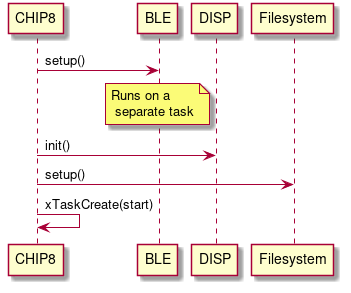
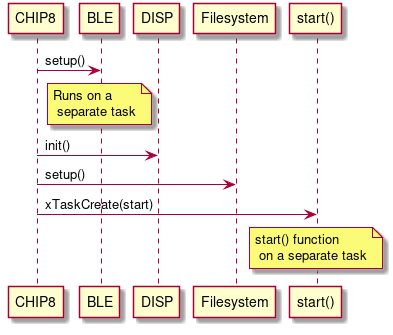
Added more content to esp32 chip8

diff --git a/_posts/2020-11-01-CHIP8-ESP32.md b/_posts/2020-11-01-CHIP8-ESP32.md
@@ -200,12 +200,29 @@ Now that the caching is applied, let's see the improvement in the performance:
 |:--:| 
 | *Output in the TFT display with caching to improve perf on [test rom](https://github.com/corax89/chip8-test-rom)* |
 
-Perfect! It takes less than a second similar to the desktop implementation. That is more than a 10x improvement in performance.
+Perfect! It takes less than a second similar to the desktop implementation. That is more than a 10x improvement in performance compared to my naive implementation.
 
-### CHIP8
+### CHIP8 (class)
 
 #### Concept
 As seen in the `SW Class Diagram`, this `CHIP8` class initiates and ties everything together. The main responsibility of the `CHIP8` class is to initialize all the classes, and orchestrate coordination between them to run the CHIP8 VM. 
+
+
+#### Porting
+
+| ![chip8seq](/assets/ESP32-CHIP8/CHIP8_seq.png) |
+|:--:| 
+| *Sequence diagram of CHIP8 class interaction with other classes* |
+
+First, the CHIP8 class spawns a BLE task with an appropriate service to process the incoming request. It is done by calling few member functions of the BLE class. Then the CHIP8 class initializes the TFT display and the SPIFFS filesystem. And finally, it spawns a new task with a function that is indicated as `start()` for running the emulator itself. Running the emulator as a part of separate tasks allows to specify the stack size and the core it needs to run (Core 1 was chosen here as BLE runs on Core 0)
+
+The start function is implemented as state machine as follows:
+
+| ![chip8state](/assets/ESP32-CHIP8/CHIP8_state.png) |
+|:--:| 
+| *State diagram of the start function* |
+
+
 ### Discarded
 Computers are fascinating. Processors are at the heart of the computer. They are one of the most important piece of hardware that are making the computer faster and getting smaller every year[moore's law]. With advancement in processor technology, comes the complexity. It is not easy to 
 It all boils down to this fetch - decode - execute cycle. 
